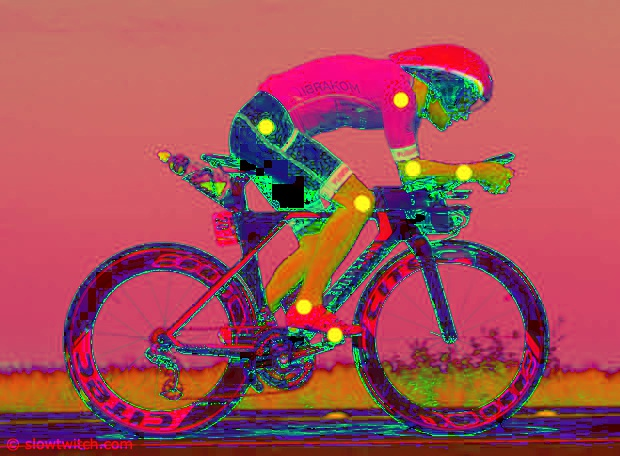
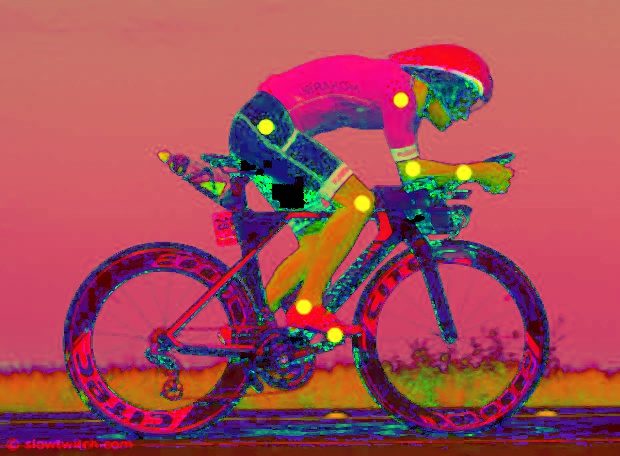
Add median blur to loaded file

Changed region(s): [[0.0, 0.2149, 1.0, 1.0], [0.6129, 0.1228, 0.7968, 0.307], [0.521, 0.1842, 0.5516, 0.2149]]

diff --git a/test-data/image_test.py b/test-data/image_test.py
@@ -1,4 +1,4 @@
-import cv2 as cv
+import cv2
 import numpy as np
 import sys
 
@@ -9,7 +9,7 @@ color_span = int(sys.argv[4])
 image_to_load = sys.argv[5]
 
 color = np.uint8([[[blue, green, red]]])
-hsv_color = cv.cvtColor(color, cv.COLOR_BGR2HSV)
+hsv_color = cv2.cvtColor(color, cv2.COLOR_BGR2HSV)
 hue = hsv_color[0][0][0]
 print ("Hue: " + str(hue) + ", Color span: " + str(color_span))
 
@@ -22,18 +22,17 @@ else:
     upper_hue = hue
     print ("Lower Hue: " + str(lower_hue) + ", Upper Hue: " + str(upper_hue))
 
-image = cv.imread(image_to_load)
-if image is None:
+image_r = cv2.imread(image_to_load)
+if image_r is None:
     print ("No image readed")
     exit()
-
-image_hsv = cv.cvtColor(image, cv.COLOR_BGR2HSV)
+image = cv2.medianBlur(image_r, 3)
+image_hsv = cv2.cvtColor(image, cv2.COLOR_BGR2HSV)
 lower_color = np.array([lower_hue, 100, 100], dtype=np.uint8)
 upper_color = np.array([upper_hue, 255, 255], dtype=np.uint8)
-mask = cv.inRange(image_hsv, lower_color, upper_color)
+mask = cv2.inRange(image_hsv, lower_color, upper_color)
+res = cv2.bitwise_and(image, image, mask=mask)
 
-res = cv.bitwise_and(image, image, mask=mask)
-
-cv.imwrite("out.jpg", res)
-cv.imwrite("hsv.jpg", image_hsv)
-cv.imwrite("mask.jpg", mask)
+cv2.imwrite("out.jpg", res)
+cv2.imwrite("hsv.jpg", image_hsv)
+cv2.imwrite("mask.jpg", mask)
